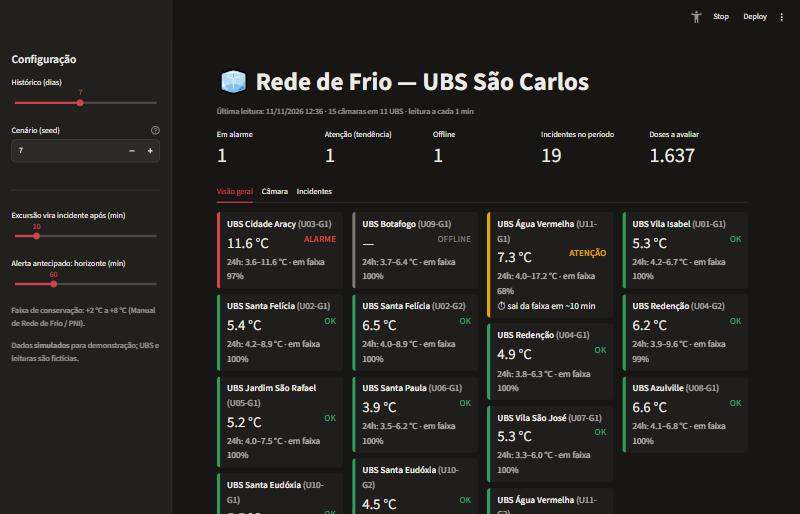
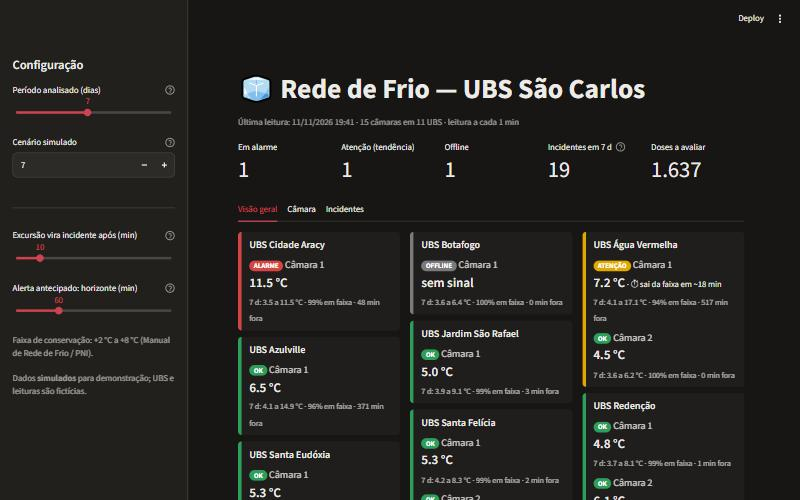
Dashboard: um cartão por UBS, rede fixa entre cenários e controles com efeito visível; testes de interface com AppTest

diff --git a/app.py b/app.py
@@ -28,12 +28,19 @@ def load(days: int, seed: int):
 
 with st.sidebar:
     st.header("Configuração")
-    days = st.slider("Histórico (dias)", 1, 14, 7)
-    seed = st.number_input("Cenário (seed)", 1, 999, 7, help="Muda o cenário simulado")
+    days = st.slider("Período analisado (dias)", 1, 14, 7,
+                     help="Muda as estatísticas dos cartões, os incidentes e os gráficos.")
+    seed = st.number_input("Cenário simulado", 1, 999, 7,
+                           help="Sorteia outra semana de eventos (quedas de energia, portas abertas, falhas). "
+                                "As UBS e câmaras são sempre as mesmas.")
     st.divider()
     th = Thresholds(
-        incident_min_minutes=st.slider("Excursão vira incidente após (min)", 1, 60, 10),
-        forecast_horizon_minutes=st.slider("Alerta antecipado: horizonte (min)", 15, 180, 60),
+        incident_min_minutes=st.slider("Excursão vira incidente após (min)", 1, 60, 10,
+                                       help="Excursões mais curtas (ex.: porta aberta por instantes) são "
+                                            "registradas, mas não contam como incidente."),
+        forecast_horizon_minutes=st.slider("Alerta antecipado: horizonte (min)", 15, 180, 60,
+                                           help="Câmara entra em ATENÇÃO se a tendência indicar saída da "
+                                                "faixa dentro deste horizonte."),
     )
     st.caption("Faixa de conservação: +2 °C a +8 °C (Manual de Rede de Frio / PNI).")
     st.caption("Dados **simulados** para demonstração; UBS e leituras são fictícias.")
@@ -58,8 +65,10 @@ def incident_table(df: pd.DataFrame, now: pd.Timestamp) -> pd.DataFrame:
 
 readings, fridges, events = load(days, int(seed))
 now = readings.timestamp.max()
-status = fridge_status(readings, fridges, now, th)
+status = fridge_status(readings, fridges, now, th, window_hours=days * 24)
 inc = incidents(readings, th).merge(fridges[["fridge_id", "ubs"]], on="fridge_id")
+# rótulo amigável: "Câmara 1", "Câmara 2" dentro de cada UBS
+status["camara"] = "Câmara " + status.fridge_id.str[-1]
 
 st.title("🧊 Rede de Frio — UBS São Carlos")
 st.caption(f"Última leitura: {now:%d/%m/%Y %H:%M} · {len(fridges)} câmaras em {fridges.ubs.nunique()} UBS · leitura a cada 1 min")
@@ -69,39 +78,48 @@ counts = status.status.value_counts()
 c[0].metric("Em alarme", int(counts.get("ALARME", 0)))
 c[1].metric("Atenção (tendência)", int(counts.get("ATENÇÃO", 0)))
 c[2].metric("Offline", int(counts.get("OFFLINE", 0)))
-c[3].metric("Incidentes no período", int(inc.is_incident.sum()))
+c[3].metric(f"Incidentes em {days} d", int(inc.is_incident.sum()),
+            help=f"Excursões de {th.incident_min_minutes} min ou mais. Total de excursões: {len(inc)}.")
 c[4].metric("Doses a avaliar", f"{doses_at_risk(status, inc, now):,}".replace(",", "."))
 
 tab_overview, tab_detail, tab_incidents = st.tabs(["Visão geral", "Câmara", "Incidentes"])
 
 with tab_overview:
+    # um cartão por UBS (com suas câmaras dentro), do pior status para o melhor
+    order = {"ALARME": 0, "OFFLINE": 1, "ATENÇÃO": 2, "OK": 3}
+    ubs_rank = status.assign(r=status.status.map(order)).groupby("ubs").r.min().sort_values(kind="stable")
     cols = st.columns(3)
-    for i, row in enumerate(status.itertuples()):
+    for i, ubs in enumerate(ubs_rank.index):
+        rows = status[status.ubs == ubs].sort_values("camara")
+        worst = rows.status.map(order).idxmin()
+        color = STATUS_COLOR[rows.loc[worst, "status"]]
+        lines = []
+        for r in rows.itertuples():
+            temp = "sem sinal" if r.status == "OFFLINE" or pd.isna(r.temp_atual) else f"{r.temp_atual:.1f} °C"
+            eta = (f" · ⏱ sai da faixa em ~{r.min_para_sair_da_faixa:.0f} min"
+                   if r.status == "ATENÇÃO" and r.min_para_sair_da_faixa is not None else "")
+            lines.append(
+                f"""<div style="margin-top:6px"><span style="background:{STATUS_COLOR[r.status]};color:white;
+                font-size:.7em;font-weight:700;padding:1px 7px;border-radius:9px">{r.status}</span>
+                <span style="opacity:.85">{r.camara}</span><br>
+                <b style="font-size:1.3em;white-space:nowrap">{temp}</b><span style="font-size:.85em">{eta}</span><br>
+                <span style="opacity:.7;font-size:.8em">{days} d: {r.min_periodo:.1f} a {r.max_periodo:.1f} °C ·
+                {int(r.tempo_em_faixa_pct)}% em faixa · {r.min_fora:.0f} min fora</span></div>"""
+            )
         with cols[i % 3]:
-            color = STATUS_COLOR[row.status]
-            eta = f"<br>⏱ sai da faixa em ~{row.min_para_sair_da_faixa:.0f} min" if row.min_para_sair_da_faixa is not None and row.status == "ATENÇÃO" else ""
-            temp = "—" if pd.isna(row.temp_atual) or row.status == "OFFLINE" else f"{row.temp_atual:.1f} °C"
             st.markdown(
                 f"""<div style="border-left:6px solid {color};padding:8px 12px;margin-bottom:10px;
-                border-radius:6px;background:rgba(127,127,127,0.08)">
-                <span style="background:{color};color:white;font-size:.75em;font-weight:700;
-                padding:1px 8px;border-radius:10px">{row.status}</span>
-                <span style="opacity:.6;font-size:.8em">{row.fridge_id}</span><br>
-                <b>{row.ubs}</b><br>
-                <span style="font-size:1.6em">{temp}</span><br>
-                <span style="opacity:.75;font-size:.85em">24h: {row.min_24h:.1f} a {row.max_24h:.1f} °C ·
-                {int(row.tempo_em_faixa_24h_pct)}% em faixa</span>{eta}</div>""",
+                border-radius:6px;background:rgba(127,127,127,0.08)"><b>{ubs}</b>{''.join(lines)}</div>""",
                 unsafe_allow_html=True,
             )
-    st.subheader("Minutos fora da faixa nas últimas 24 h")
-    out = status.assign(label=status.fridge_id + " · " + status.ubs).set_index("label")["min_fora_24h"]
+    st.subheader(f"Minutos fora da faixa ({days} dias)")
+    out = status.assign(label=status.ubs + " · " + status.camara).set_index("label")["min_fora"]
     st.bar_chart(out.sort_values(ascending=False), height=260, horizontal=True)
 
 with tab_detail:
     # ordem por gravidade: abre direto na câmara mais crítica
-    options = [f"{r.fridge_id} · {r.ubs} · {r.status}" for r in status.itertuples()]
-    choice = st.selectbox("Câmara", options)
-    fid = choice.split(" · ")[0]
+    labels = {f"{r.ubs} · {r.camara} · {r.status}": r.fridge_id for r in status.itertuples()}
+    fid = labels[st.selectbox("Câmara", list(labels))]
     g = readings[readings.fridge_id == fid]
     fig = go.Figure()
     fig.add_hrect(y0=th.low, y1=th.high, fillcolor="green", opacity=0.08, line_width=0)

diff --git a/coldchain/analytics.py b/coldchain/analytics.py
@@ -81,12 +81,15 @@ def minutes_to_exit(series: pd.Series, times: pd.Series, th: Thresholds = Thresh
 
 
 def fridge_status(readings: pd.DataFrame, fridges: pd.DataFrame, now: pd.Timestamp,
-                  th: Thresholds = Thresholds()) -> pd.DataFrame:
-    """Estado atual de cada geladeira: OK, ATENÇÃO (tendência de saída), ALARME (fora da faixa) ou OFFLINE."""
+                  th: Thresholds = Thresholds(), window_hours: float = 24) -> pd.DataFrame:
+    """Estado atual de cada geladeira: OK, ATENÇÃO (tendência de saída), ALARME (fora da faixa) ou OFFLINE.
+
+    Mínimo, máximo, tempo em faixa e minutos fora são calculados sobre as últimas `window_hours`.
+    """
     rows = []
-    last_24h = readings[readings.timestamp > now - pd.Timedelta(hours=24)]
+    period = readings[readings.timestamp > now - pd.Timedelta(hours=window_hours)]
     for f in fridges.itertuples():
-        g = last_24h[last_24h.fridge_id == f.fridge_id].sort_values("timestamp")
+        g = period[period.fridge_id == f.fridge_id].sort_values("timestamp")
         valid = g.dropna(subset=["temp_c"])
         last_seen = valid.timestamp.max() if len(valid) else pd.NaT
         current = valid.temp_c.iloc[-1] if len(valid) else np.nan
@@ -108,8 +111,8 @@ def fridge_status(readings: pd.DataFrame, fridges: pd.DataFrame, now: pd.Timesta
             status = "OK"
         rows.append({
             "fridge_id": f.fridge_id, "ubs": f.ubs, "model": f.model, "doses_stored": f.doses_stored,
-            "status": status, "temp_atual": current, "min_24h": valid.temp_c.min(), "max_24h": valid.temp_c.max(),
-            "tempo_em_faixa_24h_pct": tir, "min_fora_24h": float((~in_range).sum() * step_min),
+            "status": status, "temp_atual": current, "min_periodo": valid.temp_c.min(), "max_periodo": valid.temp_c.max(),
+            "tempo_em_faixa_pct": tir, "min_fora": float((~in_range).sum() * step_min),
             "min_para_sair_da_faixa": eta, "ultima_leitura": last_seen,
         })
     order = {"ALARME": 0, "OFFLINE": 1, "ATENÇÃO": 2, "OK": 3}

diff --git a/tests/test_app.py b/tests/test_app.py
@@ -1,0 +1,41 @@
+"""Testes da interface com o AppTest do Streamlit (roda o app sem navegador)."""
+
+import re
+from pathlib import Path
+
+from streamlit.testing.v1 import AppTest
+
+from coldchain.simulator import UBS_NAMES
+
+APP = str(Path(__file__).resolve().parents[1] / "app.py")
+
+
+def _cards(at) -> list[str]:
+    html = "".join(m.value for m in at.markdown)
+    return re.findall(r"<b>(UBS [^<]+)</b>", html)
+
+
+def _run(**changes):
+    at = AppTest.from_file(APP, default_timeout=60).run()
+    for label, value in changes.items():
+        widget = next(w for w in [*at.slider, *at.number_input] if w.label.startswith(label))
+        widget.set_value(value)
+    return at.run()
+
+
+def test_one_card_per_ubs_and_same_network_across_scenarios():
+    for seed in (7, 8, 9):
+        at = _run(**{"Cenário simulado": seed})
+        assert not at.exception
+        cards = _cards(at)
+        assert sorted(cards) == sorted(UBS_NAMES)  # 11 UBS, nenhuma repetida
+
+
+def test_controls_change_what_is_shown():
+    base = _run()
+    longer = _run(**{"Período analisado (dias)": 14})
+    strict = _run(**{"Excursão vira incidente após (min)": 1})
+    metric = lambda at, prefix: next(m.value for m in at.metric if m.label.startswith(prefix))
+    assert metric(base, "Incidentes em 7 d") != metric(strict, "Incidentes em 7 d")
+    assert "14 d:" in "".join(m.value for m in longer.markdown)
+    assert any(m.label.startswith("Incidentes em 14 d") for m in longer.metric)

diff --git a/coldchain/simulator.py b/coldchain/simulator.py
@@ -19,6 +19,8 @@ UBS_NAMES = [
     "UBS Botafogo", "UBS Santa Eudóxia", "UBS Água Vermelha",
 ]  # bairros de São Carlos; unidades e dados são fictícios
 
+INVENTORY_SEED = 7  # rede fixa de UBS/câmaras, independente do cenário simulado
+
 
 @dataclass(frozen=True)
 class Event:
@@ -78,7 +80,8 @@ def simulate(days: int = 7, freq_s: int = 60, n_ubs: int = 11, seed: int = 7,
     end = (end or pd.Timestamp.now(tz="America/Sao_Paulo")).floor("min")
     start = end - pd.Timedelta(days=days)
     idx = pd.date_range(start, end, freq=f"{freq_s}s", inclusive="left")
-    fridges = build_fridges(n_ubs, seed)
+    # O inventário (UBS e câmaras) é fixo: o `seed` muda só o cenário de eventos.
+    fridges = build_fridges(n_ubs, INVENTORY_SEED)
     events = schedule_events(fridges, start, days, seed)
     if live:
         events = sorted(events + live_events(fridges, end, seed), key=lambda e: e.start)
